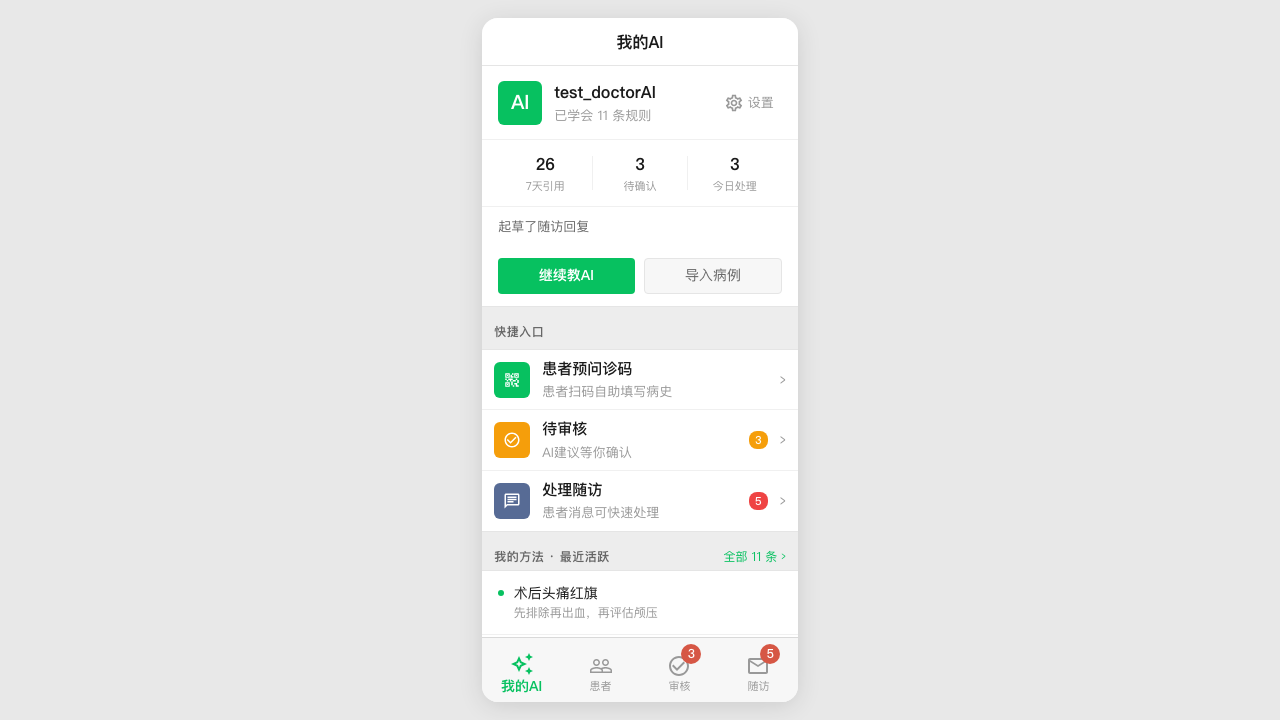
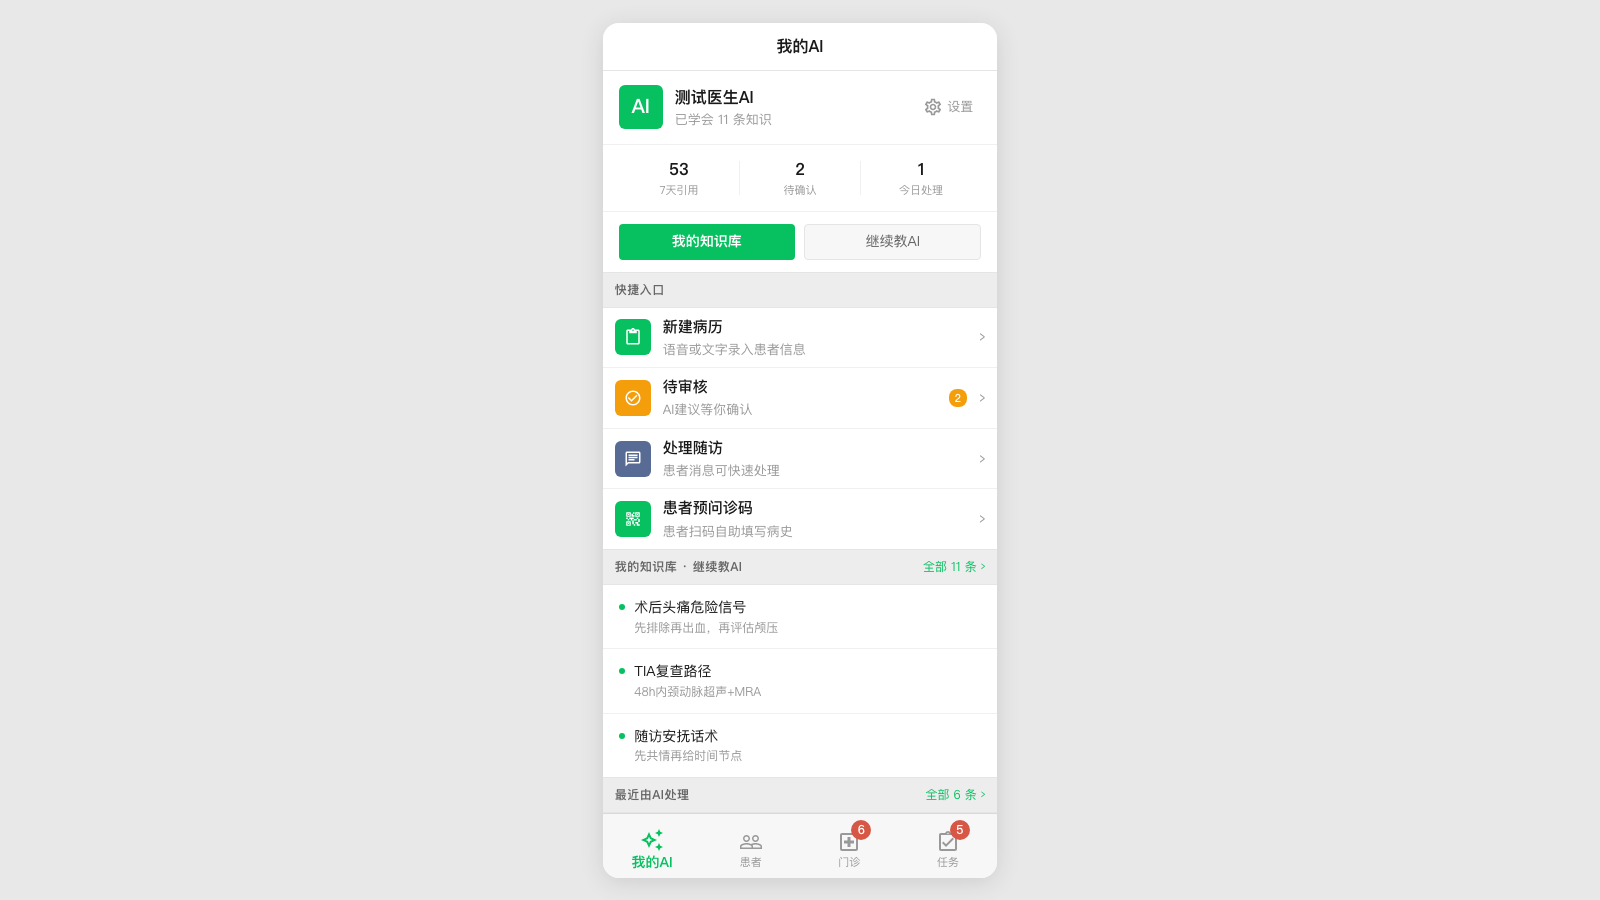
docs: add page screenshots to component map, retake all doctor screenshots
Each page column shows its current screenshot above the component
blocks. Click thumbnail for full-size lightbox. All 8 doctor page
screenshots retaken to reflect latest UI changes (nav tabs renamed,
task page redesigned, new input bar on interview).

diff --git a/docs/ux/component-map.html b/docs/ux/component-map.html
@@ -55,6 +55,13 @@ body {
   font-size: 10px; font-weight: 400; color: #656d76;
   font-family: "SF Mono", SFMono-Regular, monospace;
 }
+.page-screenshot {
+  padding: 6px; border-bottom: 1px solid #e1e4e8; cursor: pointer;
+}
+.page-screenshot img {
+  width: 100%; border-radius: 4px; border: 1px solid #e1e4e8;
+  display: block;
+}
 .page-blocks { padding: 8px; display: flex; flex-direction: column; gap: 6px; }
 
 .block {
@@ -115,7 +122,7 @@ const GROUPS = {
 
 /* ── Page definitions ── */
 const PAGES = [
-  { id: 'myai', title: 'MyAI', route: '/doctor', blocks: [
+  { id: 'myai', title: 'MyAI', route: '/doctor', img: 'page-screenshots/doctor-home.png', blocks: [
     { name: 'SubpageHeader', group: 'SubpageHeader', desc: 'Page title + back nav' },
     { name: 'HeroIdentityCard', group: '_page', desc: 'AI name, avatar, stats row', path: 'frontend/web/src/pages/doctor/subpages/MyAISubpage.jsx' },
     { name: 'CTAButtons', group: '_page', desc: '我的知识库 + 继续教AI', path: 'frontend/web/src/pages/doctor/subpages/MyAISubpage.jsx' },
@@ -123,21 +130,21 @@ const PAGES = [
     { name: 'KnowledgePreview', group: '_page', desc: 'Top 3 knowledge rules', path: 'frontend/web/src/pages/doctor/subpages/MyAISubpage.jsx' },
     { name: 'RecentActivity', group: 'PatientAvatar', desc: 'AI-processed list + avatars' },
   ]},
-  { id: 'patients', title: 'Patients', route: '/doctor/patients', blocks: [
+  { id: 'patients', title: 'Patients', route: '/doctor/patients', img: 'page-screenshots/doctor-patients.png', blocks: [
     { name: 'SubpageHeader', group: 'SubpageHeader', desc: 'Page title + back nav' },
     { name: 'SearchBar', group: '_page', desc: 'Patient name search', path: 'frontend/web/src/pages/doctor/PatientsPage.jsx' },
     { name: 'AIAttentionSection', group: '_page', desc: 'AI-flagged patients', path: 'frontend/web/src/pages/doctor/PatientsPage.jsx' },
     { name: 'PatientList', group: 'PatientAvatar', desc: 'Scrollable patient cards + avatars' },
     { name: 'PatientDetail link', group: '_page', desc: '-> PatientDetail column', path: 'frontend/web/src/pages/doctor/patients/PatientDetail.jsx' },
   ]},
-  { id: 'review', title: '门诊', route: '/doctor/review', blocks: [
+  { id: 'review', title: '门诊', route: '/doctor/review', img: 'page-screenshots/doctor-review.png', blocks: [
     { name: 'SubpageHeader', group: 'SubpageHeader', desc: 'Page title + back nav' },
     { name: 'FilterStatBar', group: 'FilterStatBar', desc: '待审核 / 已确认 / 已修改' },
     { name: 'PendingReviewCard', group: 'PatientAvatar', desc: 'Review card + patient avatar' },
     { name: 'CompletedRow', group: '_page', desc: 'Completed review items', path: 'frontend/web/src/pages/doctor/ReviewPage.jsx' },
     { name: 'EmptyState', group: '_page', desc: 'No items placeholder', path: 'frontend/web/src/pages/doctor/ReviewPage.jsx' },
   ]},
-  { id: 'tasks', title: '任务', route: '/doctor/tasks', blocks: [
+  { id: 'tasks', title: '任务', route: '/doctor/tasks', img: 'page-screenshots/doctor-tasks.png', blocks: [
     { name: 'SubpageHeader', group: 'SubpageHeader', desc: 'Page title + back nav' },
     { name: 'FilterStatBar', group: 'FilterStatBar', desc: '待回复 / 待完成 / 已完成' },
     { name: 'MessageItem', group: 'MessageItem', desc: 'Patient messages + AI drafts' },
@@ -145,20 +152,20 @@ const PAGES = [
     { name: 'TaskRow', group: '_page', desc: 'Active task items', path: 'frontend/web/src/pages/doctor/TasksPage.jsx' },
     { name: 'SentRow', group: '_page', desc: 'Sent message history', path: 'frontend/web/src/pages/doctor/TasksPage.jsx' },
   ]},
-  { id: 'settings', title: 'Settings', route: '/doctor/settings', blocks: [
+  { id: 'settings', title: 'Settings', route: '/doctor/settings', img: 'page-screenshots/doctor-settings.png', blocks: [
     { name: 'SubpageHeader', group: 'SubpageHeader', desc: 'Page title + back nav' },
     { name: 'AccountBlock', group: '_page', desc: 'Avatar, name, hospital', path: 'frontend/web/src/pages/doctor/SettingsPage.jsx' },
     { name: 'SettingsRows', group: 'ListCard', desc: 'ListCard setting rows' },
     { name: 'Subpages', group: '_page', desc: 'Knowledge, Template, About, Privacy', path: 'frontend/web/src/pages/doctor/subpages/' },
   ]},
-  { id: 'patient-detail', title: 'PatientDetail', route: '/doctor/patients/:id', blocks: [
+  { id: 'patient-detail', title: 'PatientDetail', route: '/doctor/patients/:id', img: 'page-screenshots/doctor-patients-1.png', blocks: [
     { name: 'StickyTopBar', group: '_page', desc: 'Back button + patient name', path: 'frontend/web/src/pages/doctor/patients/PatientDetail.jsx' },
     { name: 'CollapsibleProfile', group: '_page', desc: 'Expandable patient info', path: 'frontend/web/src/pages/doctor/patients/PatientDetail.jsx' },
     { name: 'RecordTabs + RecordCard', group: '_page', desc: 'History / notes tab switcher', path: 'frontend/web/src/pages/doctor/patients/PatientDetail.jsx' },
     { name: 'PendingReviewRow', group: '_page', desc: '-> links to 门诊 review', path: 'frontend/web/src/pages/doctor/patients/PatientDetail.jsx' },
     { name: 'PatientMessages', group: '_page', desc: 'Recent messages list', path: 'frontend/web/src/pages/doctor/patients/PatientDetail.jsx' },
   ]},
-  { id: 'interview', title: 'Interview', route: '/patient/interview', blocks: [
+  { id: 'interview', title: 'Interview', route: '/doctor/patients/new', img: 'page-screenshots/doctor-patients-new.png', blocks: [
     { name: 'SubpageHeader', group: 'SubpageHeader', desc: 'Page title + back nav' },
     { name: 'ProgressBar', group: '_page', desc: 'Multi-step progress indicator', path: 'frontend/web/src/pages/patient/InterviewPage.jsx' },
     { name: 'ChatBubbles', group: 'MessageItem', desc: 'AI / patient chat bubbles' },
@@ -166,7 +173,7 @@ const PAGES = [
     { name: 'InputBar + VoiceInput', group: 'VoiceInput', desc: 'Text + voice input bar' },
     { name: 'ActionPanel', group: '_page', desc: 'Submit / next actions', path: 'frontend/web/src/pages/patient/InterviewPage.jsx' },
   ]},
-  { id: 'chat', title: 'Chat', route: '/doctor/chat', blocks: [
+  { id: 'chat', title: 'Chat', route: '/doctor/chat', img: 'page-screenshots/doctor-chat.png', blocks: [
     { name: 'ChatTopbar', group: '_page', desc: 'Patient context header', path: 'frontend/web/src/pages/doctor/ChatPage.jsx' },
     { name: 'ChatBubbles', group: 'MessageItem', desc: 'Doctor / AI chat bubbles' },
     { name: 'DataCards', group: '_page', desc: 'Inline structured data cards', path: 'frontend/web/src/pages/doctor/ChatPage.jsx' },
@@ -205,6 +212,21 @@ PAGES.forEach(page => {
   titleEl.className = 'page-title';
   titleEl.innerHTML = `${page.title} <span class="route">${page.route}</span>`;
   col.appendChild(titleEl);
+
+  if (page.img) {
+    const ssEl = document.createElement('div');
+    ssEl.className = 'page-screenshot';
+    const img = document.createElement('img');
+    img.src = page.img;
+    img.alt = page.title;
+    img.loading = 'lazy';
+    img.onclick = function() {
+      document.getElementById('lb-img').src = page.img;
+      document.getElementById('lightbox').style.display = 'flex';
+    };
+    ssEl.appendChild(img);
+    col.appendChild(ssEl);
+  }
 
   const blocksEl = document.createElement('div');
   blocksEl.className = 'page-blocks';
@@ -279,6 +301,21 @@ function showToast(msg) {
   toastEl.classList.add('visible');
   toastTimer = setTimeout(() => toastEl.classList.remove('visible'), 2200);
 }
+</script>
+
+<div id="lightbox" style="display:none;position:fixed;inset:0;z-index:100;background:rgba(0,0,0,0.85);align-items:center;justify-content:center;cursor:pointer" onclick="this.style.display='none'">
+  <img id="lb-img" src="" style="max-width:90vw;max-height:90vh;border-radius:8px;box-shadow:0 8px 32px rgba(0,0,0,0.4)">
+</div>
+<script>
+document.getElementById('lightbox').addEventListener('click', function() { this.style.display = 'none'; });
+document.addEventListener('keydown', function(e) { if (e.key === 'Escape') document.getElementById('lightbox').style.display = 'none'; });
+// Fix lightbox display style
+var lb = document.getElementById('lightbox');
+lb.style.display = 'none';
+var origClick = lb.onclick;
+lb.onclick = function() { this.style.display = 'none'; };
+// Override show
+window.showLightbox = function() { lb.style.display = 'flex'; };
 </script>
 </body>
 </html>
